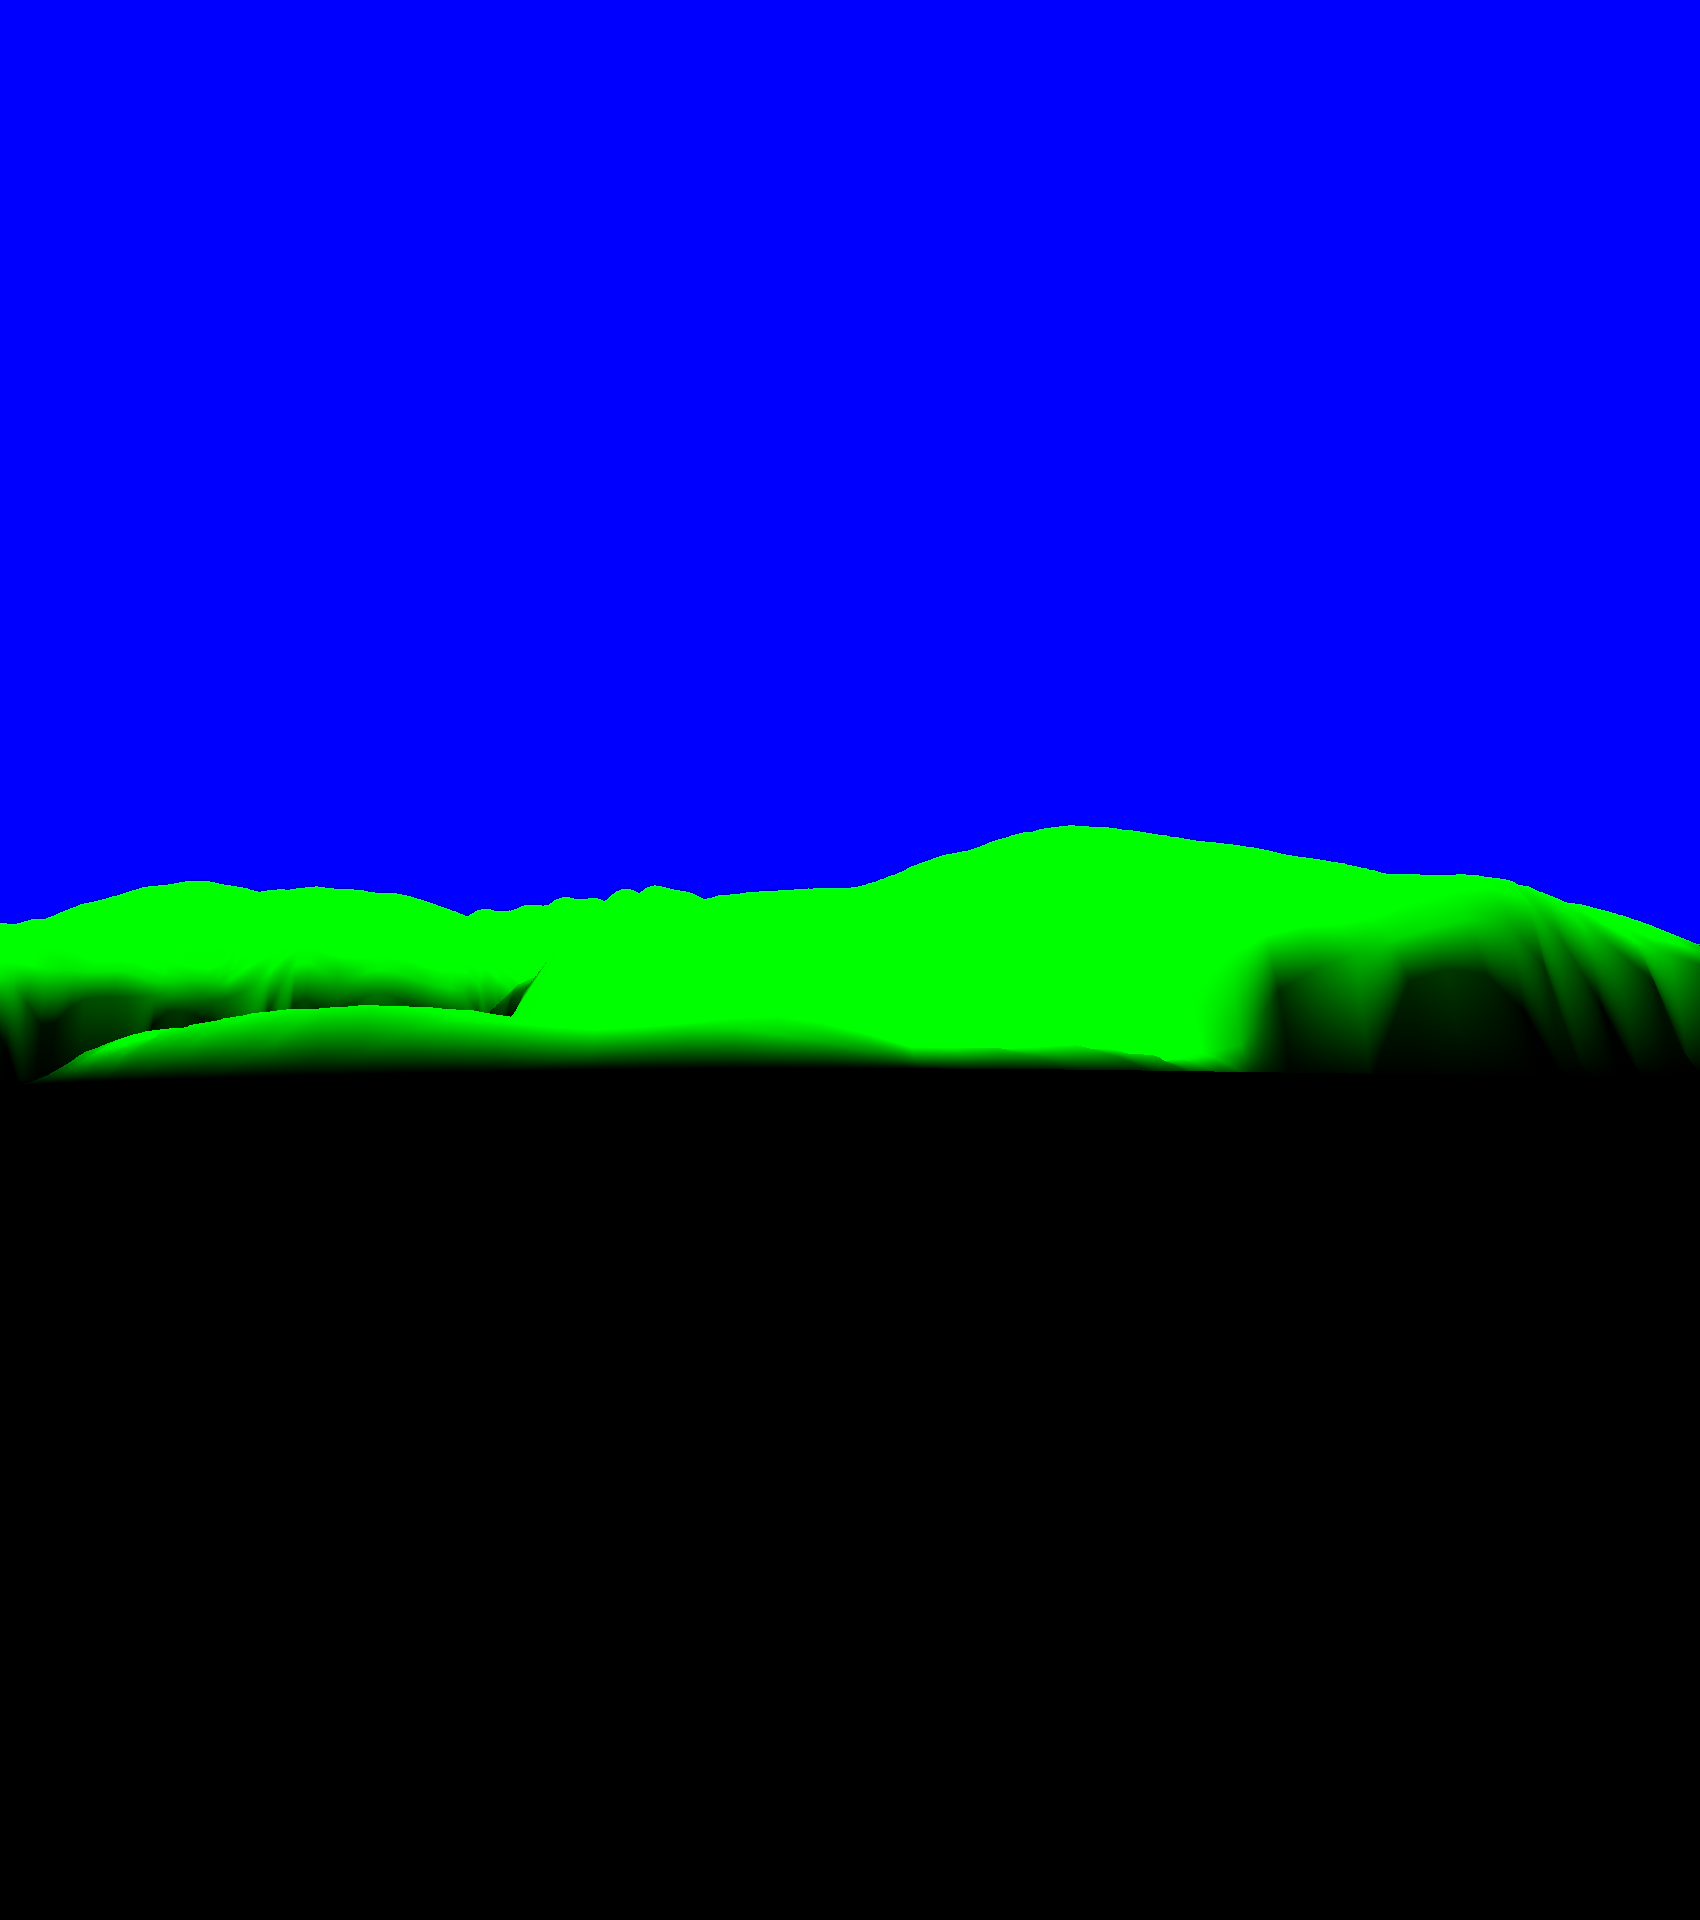
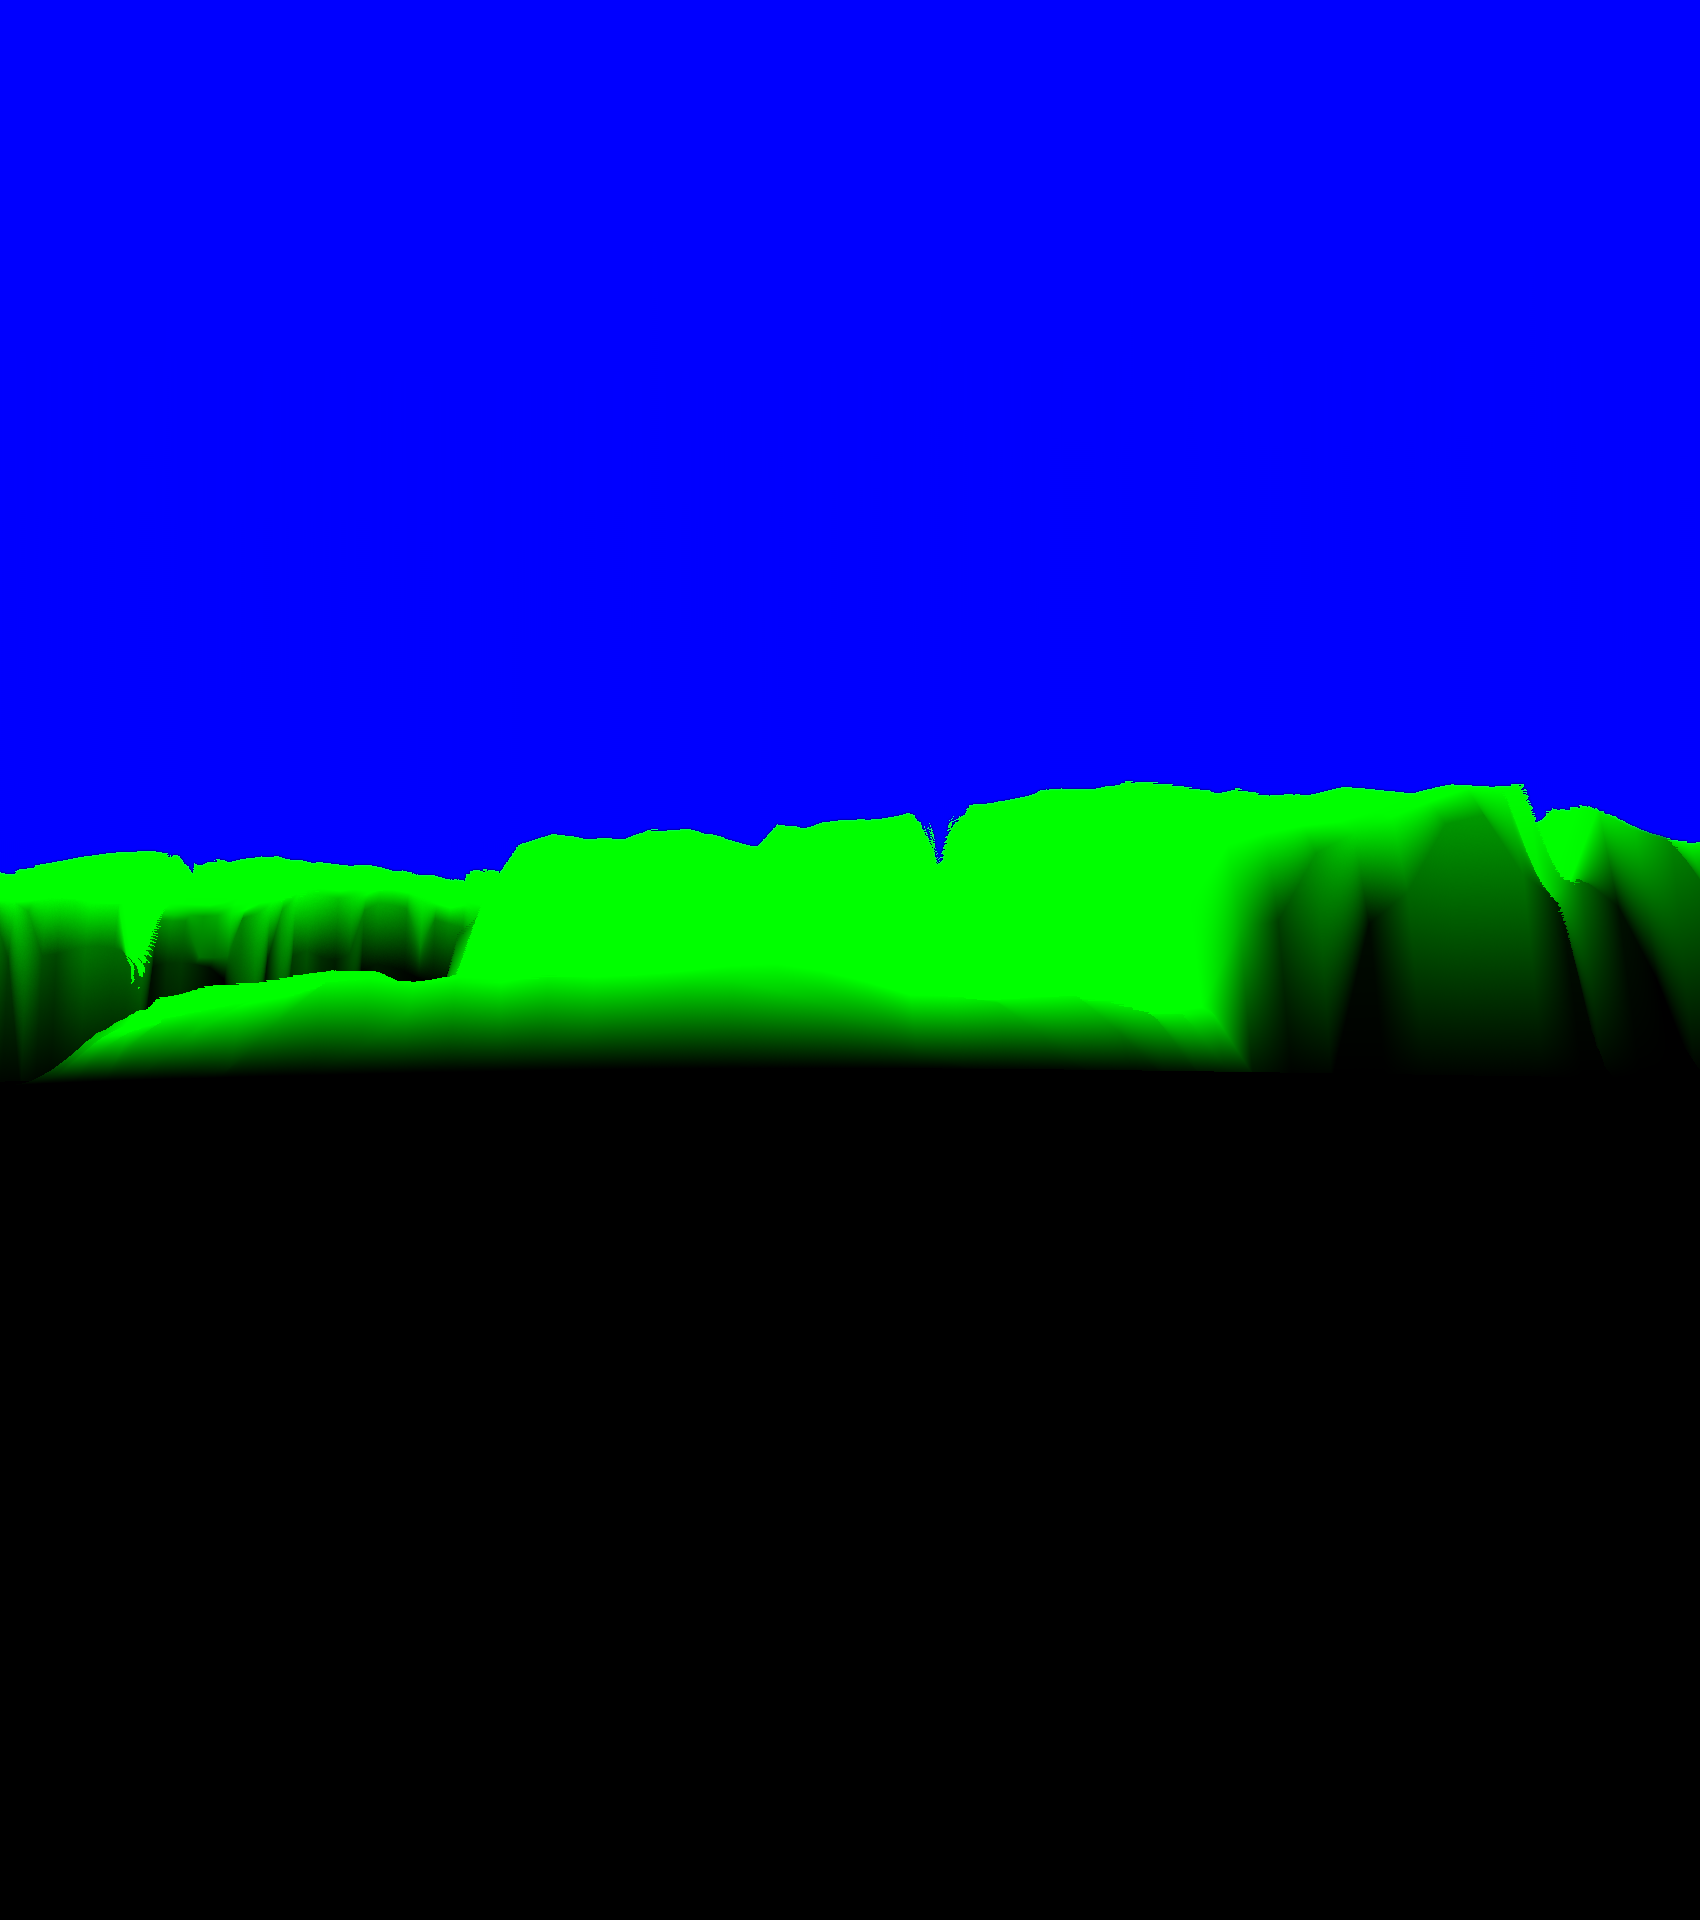
revelado-cancion: placa quebrada de serranía baja y redondeada; crestones de Carapé en bloques
Claude-Session: https://claude.ai/code/session_01GCANSbuav8x3sp8wbKz7Zv

Changed region(s): [[0.0, 0.4062, 1.0, 0.5625]]

diff --git a/versiones/revelado-cancion/plates/pl_quebrada.py b/versiones/revelado-cancion/plates/pl_quebrada.py
@@ -12,17 +12,19 @@ def scene(quick=False):
     d = Xg - xc
     floor = 40 - 0.030 * (Yg - 200)
     u = np.maximum(np.abs(d) - 35, 0)
-    wall = 0.10 * u + 0.0021 * u * u
-    n1 = fbm(N, N, 90, 6, 3)                       # 360 m
-    rid = 1 - np.abs(2 * fbm(N, N, 160, 5, 4) - 1)  # crestas y cárcavas
-    walls = wall * (0.80 + 0.45 * rid) + 46 * (n1 - 0.5) * sm(30, 200, np.abs(d))
-    cap = 165 + 60 * (fbm(N, N, 120, 4, 5) - 0.5)
-    hgt = floor + (walls * cap / (walls + cap + 1e-3)) * 1.7
-    hgt += 190 * sm(2500, 3800, Yg) * (0.75 + 0.5 * fbm(N, N, 100, 4, 6))     # el fondo se cierra con una loma
-    # copas del monte (relieve fino a 12–40 m) sobre las laderas
-    forest = sm(60, 160, np.abs(d)) * (1 - sm(0.66, 0.78, fbm(N, N, 60, 4, 7)))
-    canopy = fbm(N, N, 5, 3, 8) * 0.6 + fbm(N, N, 11, 3, 9) * 0.4
-    hgt += forest * (14 * (canopy - 0.5)) 
+    # serranía baja y redondeada: perfil convexo que satura en cresta suave (sin aristas ni picos), ~100 m sobre el piso
+    n1 = fbm(N, N, 140, 3, 3)
+    cap = 92 + 34 * (gblur(fbm(N, N, 200, 2, 5), 6) * 2)
+    prof = 1 - np.exp(-(u / (150 + 90 * (fbm(N, N, 220, 2, 4) + 0.5))) ** 1.25)
+    walls = cap * prof
+    walls = walls + 9 * (gblur(n1, 4)) * sm(30, 250, np.abs(d)) + 4 * (gblur(fbm(N, N, 40, 3, 15), 2)) * sm(60, 250, np.abs(d))
+    hgt = floor + walls
+    hgt += 70 * sm(2500, 3800, Yg) * (0.8 + 0.5 * gblur(fbm(N, N, 160, 3, 6), 5))     # el fondo se cierra con lomas suaves
+    # copas del monte: bolas redondeadas (8–25 m) sobre las laderas
+    forest = sm(50, 130, np.abs(d)) * (1 - sm(0.70, 0.82, fbm(N, N, 70, 4, 7)))
+    cr1 = fbm(N, N, 9, 2, 8); cr2 = fbm(N, N, 22, 2, 9)
+    canopy = gblur(cr1, 0.8) * 0.6 + cr2 * 0.4
+    hgt += forest * (9 * canopy)
     # arroyo con meandros
     xs = xc + 70 * np.sin(Yg / 260 + 1.0) + 26 * np.sin(Yg / 97)
     ds = Xg - xs
@@ -33,17 +35,18 @@ def scene(quick=False):
     hgt = np.where(chan > 0.5, np.minimum(hgt, wl), hgt)
     hgt = np.where(chan > 0.5, wl, hgt)
     water = sm(0.45, 0.55, chan)
-    # roca
-    slope = np.hypot(*np.gradient(gblur(hgt, 1.5), dx))
-    rock = np.clip(sm(0.66, 0.74, fbm(N, N, 60, 5, 10)) * sm(90, 200, np.abs(d)) + sm(1.6, 2.4, slope) * 0.6, 0, 1)
-    rock = gblur(rock, 1.2)
-    hgt += rock * 5 * (fbm(N, N, 3, 4, 11) - 0.5)
+    # roca: pocos afloramientos claros en laderas altas, aspecto de bloques
+    upper = sm(0.35, 0.8, (hgt - floor) / 110.0) * sm(90, 200, np.abs(d))
+    rock = np.clip(sm(0.74, 0.80, fbm(N, N, 40, 5, 10)) * upper * 1.4, 0, 1)
+    rock = gblur(rock, 1.0)
+    blk = np.floor(fbm(N, N, 12, 3, 16) * 14) / 14
+    hgt += rock * (3.0 * (fbm(N, N, 4, 4, 11) - 0.5) + 5 * (blk - 0.0))
     T = Terrain(hgt, dx)
-    alb = 0.085 + 0.10 * fbm(N, N, 20, 4, 12)
+    alb = 0.065 + 0.08 * fbm(N, N, 20, 4, 12)
     alb = alb * (1 - sm(0, 1, np.exp(-(ds / 70.0) ** 2))) + 0.30 * np.exp(-(ds / 70.0) ** 2)  # pastizal en el piso
     peb = sm(0.62, 0.78, fbm(N, N, 9, 3, 13)) * bank * 0.6
     alb = alb + (0.45 - alb) * np.clip(peb * 1.3, 0, 0.7)
-    alb = alb * (1 - rock) + (0.46 + 0.12 * (fbm(N, N, 6, 4, 14) - 0.5)) * rock
+    alb = alb * (1 - rock) + (0.38 + 0.12 * (fbm(N, N, 6, 4, 14) - 0.5)) * rock
     ao = np.clip((gblur(hgt, 8) - hgt) / 10.0 + 0.9, 0.45, 1.05)
     return T, dict(alb=alb.astype(np.float32), rock=rock.astype(np.float32), water=water.astype(np.float32), ao=ao.astype(np.float32), forest=forest.astype(np.float32), x0=xc)
 

diff --git a/versiones/revelado-cancion/plates/pl_carape.py b/versiones/revelado-cancion/plates/pl_carape.py
@@ -16,9 +16,13 @@ def scene():
         yy, xx = Yg - cy, Xg - cx
         c, s = np.cos(rot), np.sin(rot)
         u, v = (xx * c + yy * s) / rx, (-xx * s + yy * c) / ry
-        rad = (np.abs(u) ** 2.6 + np.abs(v) ** 2.6) ** (1 / 2.6) * (1 + 0.34 * (fbm(N, N, 12, 3, 60 + seed) - 0.5))
+        rad = (np.abs(u) ** 4.5 + np.abs(v) ** 4.5) ** (1 / 4.5) * (1 + 0.34 * (fbm(N, N, 12, 3, 60 + seed) - 0.5))
         core = np.clip(1 - rad, 0, 1)
-        return H * core ** (flat * 0.7) * (0.85 + 0.3 * fbm(N, N, 18, 3, 90 + seed)), sm(1.0, 0.90, rad)
+        top = core ** (flat * 0.35)
+        top = np.floor(top * 4 + 0.5) / 4 * 0.6 + top * 0.4            # gradas de fractura
+        jx = np.abs(np.sin((xx * c + yy * s) / (rx * 0.55) * 2.2 + seed)) < 0.10   # diaclasas
+        jy = np.abs(np.sin((-xx * s + yy * c) / (ry * 0.6) * 2.4 + seed * 2)) < 0.10
+        return H * top * (0.85 + 0.3 * fbm(N, N, 18, 3, 90 + seed)) * (1 - 0.45 * (jx | jy) * (core > 0.05)), sm(1.0, 0.90, rad)
     sp = [
         (1440, 1120, 5, 4, 2.0, 0.3, 0.30), (1580, 1080, 9, 6, 3.4, 0.0, 0.5), (1400, 1140, 12, 8, 5, 0.5, 0.45), (1650, 1130, 14, 10, 6.5, 0.2, 0.42),
         (1520, 1180, 18, 12, 8, -0.2, 0.45), (1340, 1200, 20, 14, 9, 0.4, 0.42), (1700, 1250, 26, 18, 14, 0.1, 0.5), (1450, 1330, 30, 20, 16, 0.0, 0.45),
@@ -38,6 +42,8 @@ def scene():
     rough = fbm(N, N, 4, 4, 72)
     h = base + hb * 1.0 + rock * 0.9 * (rough - 0.5)
     h = h + rock * 2.2 * (fbm(N, N, 9, 3, 73) - 0.5)
+    qs = fbm(N, N, 16, 2, 80) + 0.5
+    h = h + rock * 2.6 * (np.floor(qs * 6) / 6 - 0.5)          # bloques escalonados
     groove = np.exp(-((fbm(N, N, 22, 3, 79) - 0.5) / 0.03) ** 2)
     h = h - rock * 0.35 * groove
     T = Terrain(h, dx)
